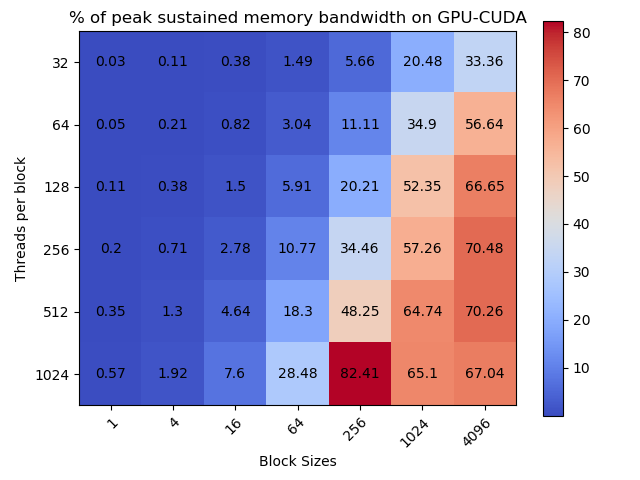
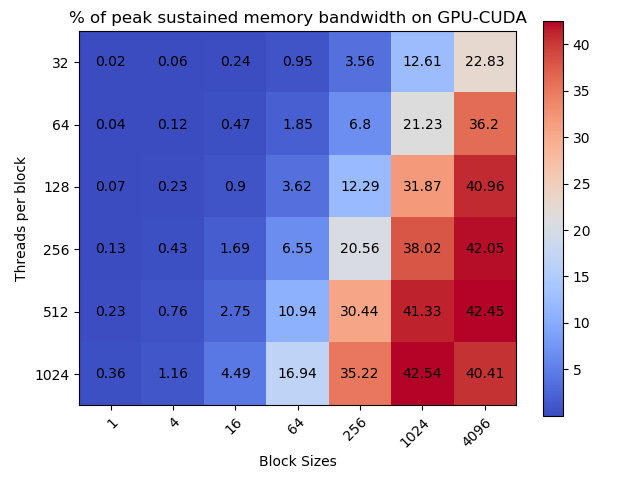
update memory pic

diff --git a/scripts/heatmap_plot_hw5.py b/scripts/heatmap_plot_hw5.py
@@ -23,53 +23,53 @@ import matplotlib.pyplot as plt
 threads_per_block = ['32', '64', '128', '256', '512', '1024'] # y axis, 6 of them
 thread_blocks = ["1", "4", "16", "64", "256", "1024", "4096"] # x axis, 7 of them
 
-runtime = np.array([[0.03,
-0.11,
-0.38,
-1.49,
-5.66,
-20.48,
-33.36
+runtime = np.array([[0.02,
+0.06,
+0.24,
+0.95,
+3.56,
+12.61,
+22.83
 ],
-                    [0.05,
-0.21,
-0.82,
-3.04,
-11.11,
-34.9,
-56.64
+                    [0.04,
+0.12,
+0.47,
+1.85,
+6.8,
+21.23,
+36.2,
 ],
-                    [0.11,
-0.38,
-1.5,
-5.91,
-20.21,
-52.35,
-66.65
+                    [0.07,
+0.23,
+0.9,
+3.62,
+12.29,
+31.87,
+40.96
 ],
-                    [0.2,
-0.71,
-2.78,
-10.77,
-34.46,
-57.26,
-70.48
+                    [0.13,
+0.43,
+1.69,
+6.55,
+20.56,
+38.02,
+42.05
 ],
-                    [0.35,
-1.3,
-4.64,
-18.3,
-48.25,
-64.74,
-70.26
+                    [0.23,
+0.76,
+2.75,
+10.94,
+30.44,
+41.33,
+42.45
 ],
-                    [0.57,
-1.92,
-7.6,
-28.48,
-82.41,
-65.1,
-67.04
+                    [0.36,
+1.16,
+4.49,
+16.94,
+35.22,
+42.54,
+40.41
 ]])
 
 
